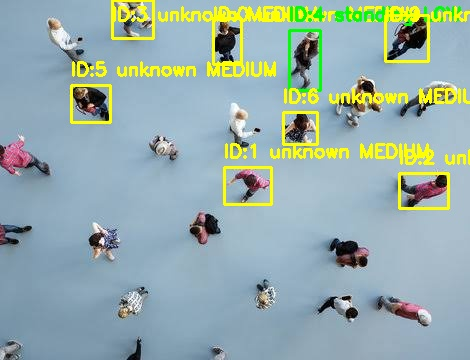
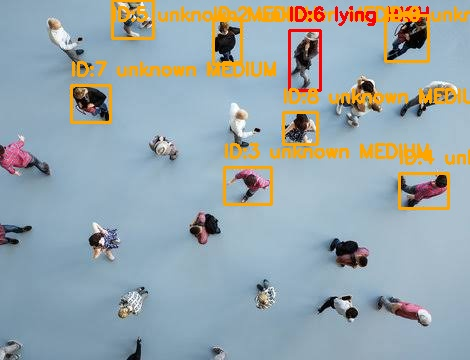
Enhance birds-eye ML pose detection and fix dashboard flexbox clipping

Changed region(s): [[0.1489, 0.0, 1.0, 0.5806]]

diff --git a/resq_app/lib/screens/camera_home.dart b/resq_app/lib/screens/camera_home.dart
@@ -165,7 +165,19 @@ class _CameraHomeState extends State<CameraHome>
     }
     return Scaffold(
       body: Stack(children: [
-        Positioned.fill(child: CameraPreview(_controller!)),
+        Positioned.fill(
+          child: Container(
+            color: Colors.black,
+            child: Center(
+              child: AspectRatio(
+                aspectRatio: MediaQuery.of(context).orientation == Orientation.portrait
+                    ? 1 / _controller!.value.aspectRatio
+                    : _controller!.value.aspectRatio,
+                child: CameraPreview(_controller!),
+              ),
+            ),
+          ),
+        ),
 
         if (_isStreaming)
           AnimatedBuilder(

diff --git a/resq_backend/detector.py b/resq_backend/detector.py
@@ -83,7 +83,7 @@ class Detector:
         return victims
 
     # --------------------------------------------------
-    # POSE INFERENCE (unchanged logic)
+    # POSE INFERENCE (Birds-Eye Euclidean Extension)
     # --------------------------------------------------
     def _infer_pose(self, kpts, w, h):
         if kpts is None:
@@ -92,22 +92,61 @@ class Detector:
         kpts = np.asarray(kpts)
         if kpts.ndim == 3:
             kpts = kpts[0]
-        if kpts.shape[0] < 13:
+        if kpts.shape[0] < 17:  # Need ankles (15, 16)
             return "unknown"
 
         try:
-            nose  = kpts[0]
-            l_hip = kpts[11]
-            r_hip = kpts[12]
+            # Shoulders (5, 6) -> Neck
+            l_sh = kpts[5]
+            r_sh = kpts[6]
+            if l_sh[2] < 0.2 and r_sh[2] < 0.2: return "unknown"
+            
+            # Hips (11, 12) -> Pelvis
+            l_hp = kpts[11]
+            r_hp = kpts[12]
+            if l_hp[2] < 0.2 and r_hp[2] < 0.2: return "unknown"
+
+            # Ankles (15, 16)
+            l_an = kpts[15]
+            r_an = kpts[16]
+
+            # Midpoints
+            neck_x, neck_y = (l_sh[0]+r_sh[0])/2, (l_sh[1]+r_sh[1])/2
+            pelv_x, pelv_y = (l_hp[0]+r_hp[0])/2, (l_hp[1]+r_hp[1])/2
+            
+            # Use the most confident ankle, or average if both good
+            if l_an[2] > 0.2 and r_an[2] > 0.2:
+                ank_x, ank_y = (l_an[0]+r_an[0])/2, (l_an[1]+r_an[1])/2
+            elif l_an[2] > 0.2:
+                ank_x, ank_y = l_an[0], l_an[1]
+            elif r_an[2] > 0.2:
+                ank_x, ank_y = r_an[0], r_an[1]
+            else:
+                ank_x, ank_y = pelv_x, pelv_y # Fallback: Leg length 0 (foreshortened)
+
         except Exception:
             return "unknown"
 
-        if nose[2] < 0.5 or (l_hip[2] < 0.5 and r_hip[2] < 0.5):
-            return "unknown"
+        # 1. Bounding box diagonal as relative scale
+        import math
+        scale = math.sqrt(w**2 + h**2)
+        if scale == 0: scale = 0.001
 
-        hip_y  = l_hip[1] if l_hip[2] > r_hip[2] else r_hip[1]
-        head_y = nose[1]
+        # 2. Euclidean Physical Extensions
+        torso = math.sqrt((neck_x - pelv_x)**2 + (neck_y - pelv_y)**2)
+        legs  = math.sqrt((pelv_x - ank_x)**2  + (pelv_y - ank_y)**2)
 
-        if abs(head_y - hip_y) < h * 0.35:
+        # 3. Total Extension Ratio
+        extension = (torso + legs) / scale
+
+        # 4. Angled / Birds-Eye Heuristics
+        # A. If body is stretched across > 45% of its bounding box diagonal, it is lying down
+        if extension > 0.45:
             return "lying"
+
+        # B. If legs are occluded/missing (extension is small) but the box is extremely wide
+        # this indicates someone lying horizontally where the tracker only caught their upper body
+        if w > h * 1.35:
+            return "lying"
+
         return "standing"

diff --git a/resq_backend/dashboard.py b/resq_backend/dashboard.py
@@ -107,7 +107,7 @@ header {
     border: 1px solid var(--border); border-radius: 12px; overflow: hidden;
     display: flex; flex-direction: column;
 }
-.feed-container img { width: 100%; flex: 1; object-fit: contain; background: #000; }
+.feed-container img { width: 100%; height: 100%; object-fit: contain; background: #000; min-height: 0; }
 .feed-label {
     padding: 8px 14px; font-size: 10px; color: rgba(255,255,255,0.3);
     letter-spacing: 2px; border-bottom: 1px solid var(--border);

diff --git a/resq_backend/app.py b/resq_backend/app.py
@@ -253,6 +253,10 @@ def telegram_polling_worker():
                     }, timeout=5)
                     _clear_keyboard(query["message"]["message_id"])
 
+                # Push WebSocket update to instantly sync the web dashboards
+                if _loop and not _loop.is_closed():
+                    asyncio.run_coroutine_threadsafe(_push_update(), _loop)
+
         except Exception as e:
             print("[Telegram] Poll error:", e)
 

diff --git a/resq_backend/thermal_dashboard.py b/resq_backend/thermal_dashboard.py
@@ -194,6 +194,7 @@ header {
     object-fit: contain;
     background: #000;
     display: block;
+    min-height: 0;
 }
 
 .img-placeholder {
